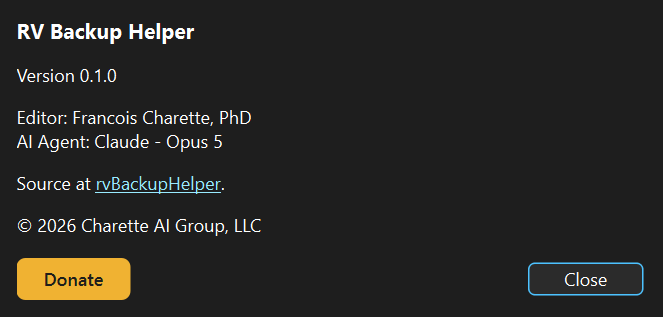
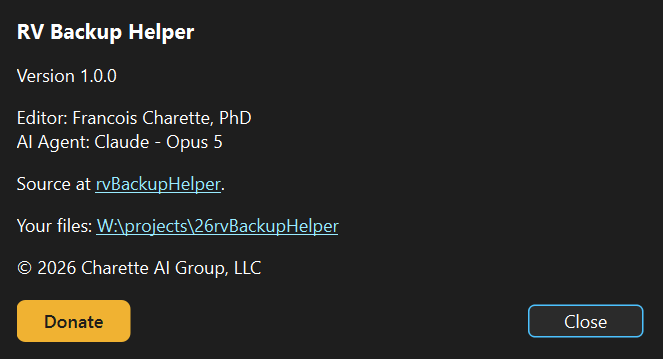
Release 1.0.0, from one version literal instead of four
The version was written in four places and 0.1.1 bumped three of them, leaving
__init__ on 0.1.0 - so the package root now holds the only literal, appConfig
re-exports it and hatch reads it. Inno still has to repeat it, and a test now
fails if it disagrees.

The manual's screenshots had gone stale in three ways: the About box still
showed 0.1.0 and no data folder, and the Calibrate tab predated both Your Files
and the driver/passenger rename. tools/makeManualShots.py redraws the two that
need nothing but the application; the ones showing real footage still have to
be taken at the RV.

diff --git a/tools/makeManualShots.py b/tools/makeManualShots.py
@@ -1,0 +1,69 @@
+r"""Redraw the manual's screenshots that need nothing but the application.
+
+The About box carries the version and the Calibrate tab carries its controls,
+so both go stale on their own - the manual sat on 0.1.0 and on a Calibrate tab
+that predated two changes without anybody noticing. Regenerating them is a
+command rather than a memory of which windows to arrange.
+
+    .venv\Scripts\python.exe tools\makeManualShots.py
+
+Only the shots that need no footage. calibrate-clip-open, calibrate-complete
+and the Capture ones show a real clip and a real grabber; those still have to
+be taken at the RV, by hand.
+"""
+
+from __future__ import annotations
+
+import sys
+from pathlib import Path
+
+from PySide6.QtWidgets import QApplication
+
+projectRoot = Path(__file__).resolve().parents[1]
+sys.path.insert(0, str(projectRoot / "src"))
+
+from rvBackupHelper import appConfig  # noqa: E402
+from rvBackupHelper.ui.dialogs.aboutDialog import AboutDialog  # noqa: E402
+from rvBackupHelper.ui.mainWindow import MainWindow  # noqa: E402
+
+imagesDir = projectRoot / "docs" / "manual" / "images"
+# What the committed window shot is, so a redraw drops in rather than
+# reflowing the manual around a different shape. The dialog is left to its
+# own sizeHint: forcing it wider only pads it with dead space.
+windowSize = (1920, 1200)
+
+
+def save(widget, path: Path, application: QApplication) -> None:
+    application.processEvents()
+    shot = widget.grab()
+    shot.save(str(path), "PNG")
+    print(f"  {path.relative_to(projectRoot)}  {shot.width()}x{shot.height()}")
+
+
+def main() -> int:
+    application = QApplication(sys.argv)
+
+    print("Redrawing:")
+
+    window = MainWindow()
+    # grab() renders at the display's device ratio, so ask for the logical
+    # size that lands on the committed one - sharp at whatever scaling the
+    # machine taking the shot happens to use, rather than resampled to fit.
+    ratio = application.primaryScreen().devicePixelRatio()
+    window.resize(round(windowSize[0] / ratio), round(windowSize[1] / ratio))
+    # The Calibrate tab, which is where the manual's tour starts.
+    window.tabs.setCurrentWidget(window.calibrationView)
+    window.show()
+    save(window, imagesDir / "calibrate-tab-empty.png", application)
+
+    about = AboutDialog()
+    about.adjustSize()
+    about.show()
+    save(about, imagesDir / "about-dialog.png", application)
+
+    print(f"\nVersion shown: {appConfig.appVersion}")
+    return 0
+
+
+if __name__ == "__main__":
+    raise SystemExit(main())

diff --git a/tests/testPackaging.py b/tests/testPackaging.py
@@ -115,3 +115,14 @@ def testTheInstalledAdviceDoesNotPointAtAToolThatIsNotThere(monkeypatch) -> None
 
     assert "setupToolchain.py" not in advice
     assert "arduino-cli core install arduino:avr" in advice
+
+
+def testTheInstallerCarriesTheSameVersionAsTheApplication() -> None:
+    """Inno cannot read the Python one, so this is what keeps them in step.
+
+    Everything on the Python side now derives from a single literal, but the
+    .iss has to repeat it - and a setup executable named after one version
+    while the About box claims another is the kind of thing nobody notices
+    until somebody reports a bug against the wrong build.
+    """
+    assert f'#define AppVersion "{appConfig.appVersion}"' in installerText

diff --git a/src/rvBackupHelper/__init__.py b/src/rvBackupHelper/__init__.py
@@ -8,4 +8,7 @@ import os
 # __init__: OpenCV reads the level once, at import time.
 os.environ.setdefault("OPENCV_LOG_LEVEL", "ERROR")
 
-__version__ = "0.1.0"
+# The one place the version is written. appConfig re-exports it for the About
+# box, and pyproject reads it from here, so a release cannot bump one and
+# leave another behind - which is exactly what 0.1.1 did.
+__version__ = "1.0.0"

diff --git a/src/rvBackupHelper/appConfig.py b/src/rvBackupHelper/appConfig.py
@@ -6,8 +6,10 @@ import os
 import sys
 from pathlib import Path
 
+from rvBackupHelper import __version__
+
 appName = "RV Backup Helper"
-appVersion = "0.1.1"
+appVersion = __version__
 organizationName = "Charette AI Group"
 
 # Help > About contents

diff --git a/README.md b/README.md
@@ -4,11 +4,9 @@ RV backup camera video capture, grid calibration and OSD overlay tooling
 
 ## Install
 
-[**Download a release**](https://github.com/Charette-AI-Group/rvBackupHelper/releases) and run
-`rvBackupHelperSetup-*.exe`. Python is not required — the interpreter is bundled — and the
-install is per-user, so there is no UAC prompt and nothing lands in Program Files. The current
-build, `v0.1.0`, is marked a pre-release; it is the first packaged one and has not been installed
-anywhere but here.
+[**Download the latest release**](https://github.com/Charette-AI-Group/rvBackupHelper/releases/latest)
+and run `rvBackupHelperSetup-1.0.0.exe`. Python is not required — the interpreter is bundled —
+and the install is per-user, so there is no UAC prompt and nothing lands in Program Files.
 
 It is unsigned, so SmartScreen warns the first time: **More info**, then **Run anyway**. What the
 wizard asks, and why it asks in that order, is under [Making an installer](#making-an-installer).
@@ -91,6 +89,16 @@ A step-by-step walkthrough with screenshots lives in
 [`docs/manual/`](docs/manual/README.md): the hardware rig, recording behind the
 RV, calibrating, and generating and flashing the sketch. The notes below are the
 quick reference.
+
+The two screenshots that need nothing but the application — the About box, which
+carries the version, and the empty Calibrate tab — are redrawn rather than
+retaken:
+
+```powershell
+.venv\Scripts\python.exe tools\makeManualShots.py
+```
+
+The rest show real footage and a real grabber, so they are still taken by hand.
 
 ## Using the app
 

diff --git a/docs/manual/calibrating.md b/docs/manual/calibrating.md
@@ -35,7 +35,10 @@ scan line means nothing without knowing what height it was measured in.
 ![The Calibrate tab with no clip open](images/calibrate-tab-empty.png)
 
 The left is a clip browser: **Open Clip…**, the picture, and a transport with a
-slider, a frame box and Previous/Next. The right is the measurement panel.
+slider, a frame box and Previous/Next. **Your Files**, opposite Open Clip,
+opens the folder holding your clips, calibrations and logs — the same one the
+About box names, which in an installed build is under `AppData` where you
+would not think to look. The right is the measurement panel.
 
 Open the clip you recorded and step to a frame where the pole is readable.
 
